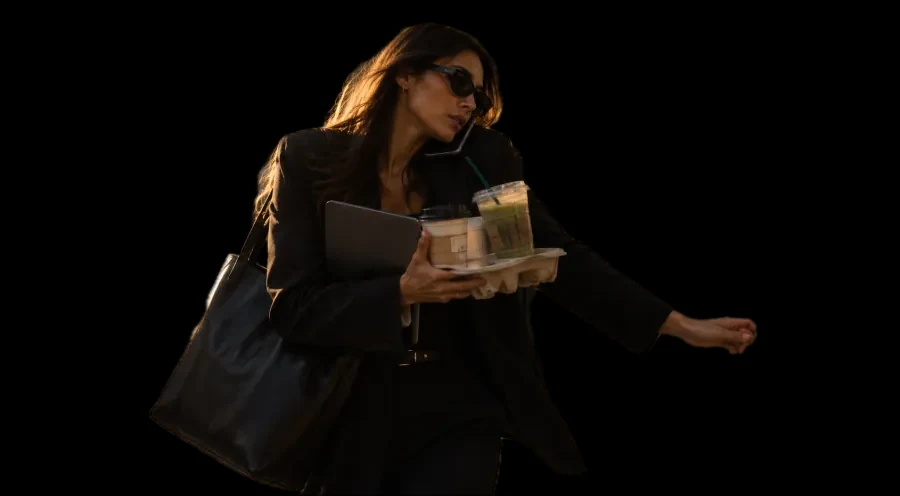
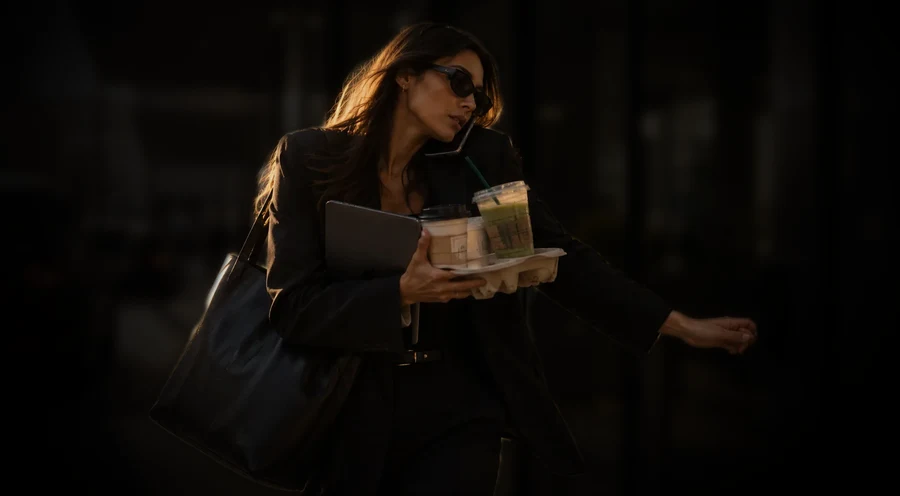
Recognition pair matched (she emerges from the dark, scaled to him); commitment card: Glow in two corners, no fill

diff --git a/css/styles.css b/css/styles.css
@@ -818,3 +818,12 @@ html:not(.review) .community .founding { margin-top: 0; }
 .phone-dialog-close:hover { color: var(--fg-1); background: rgba(255,255,255,0.06); }
 .promise-copy .promise-body { color: var(--fg-2); max-width: 46ch; margin: 0; }
 .promise-copy .promise-close { margin-top: -8px; }
+/* Recognition pair: she matches his scale and sits to the right, like him */
+.rec-panel--others .rec-photo img { object-position: 46% 10%; transform: scale(1.32); transform-origin: 52% 12%; }
+.rec-panel--others .rec-photo img { transform: scale(1.48); transform-origin: 46% 8%; }
+/* Commitment card: no fill. Kayla's Glow, smaller, bottom-right, plus a
+   smaller mirrored one top-left; the text sits on clean black. */
+.rec-band { background: #000 url("../assets/img/band-glow-alpha.webp") right bottom / min(56%, 720px) auto no-repeat; }
+.rec-band::after { content: ""; position: absolute; left: 0; top: 0; right: auto; bottom: auto; inset: 0 auto auto 0; width: min(30%, 380px); aspect-ratio: 1080 / 890; z-index: -1;
+  background: url("../assets/img/band-glow-alpha.webp") center / 100% 100% no-repeat; transform: rotate(180deg); opacity: 0.55; mix-blend-mode: normal; }
+.rec-close .para { color: var(--fg-2); }

diff --git a/index.html b/index.html
@@ -82,8 +82,8 @@
 <link rel="preconnect" href="https://fonts.googleapis.com" />
 <link rel="preconnect" href="https://fonts.gstatic.com" crossorigin />
 <link href="https://fonts.googleapis.com/css2?family=JetBrains+Mono:wght@400;500;700&display=swap" rel="stylesheet" />
-<link rel="stylesheet" href="css/tokens.css?v=20261108l" />
-<link rel="stylesheet" href="css/styles.css?v=20261108l" />
+<link rel="stylesheet" href="css/tokens.css?v=20261108o" />
+<link rel="stylesheet" href="css/styles.css?v=20261108o" />
 <script defer src="https://cdn.vercel-insights.com/v1/script.js"></script>
 </head>
 <body>
@@ -570,6 +570,6 @@
     </div>
   </footer>
 
-  <script src="js/app.js?v=20261108l"></script>
+  <script src="js/app.js?v=20261108o"></script>
 </body>
 </html>
